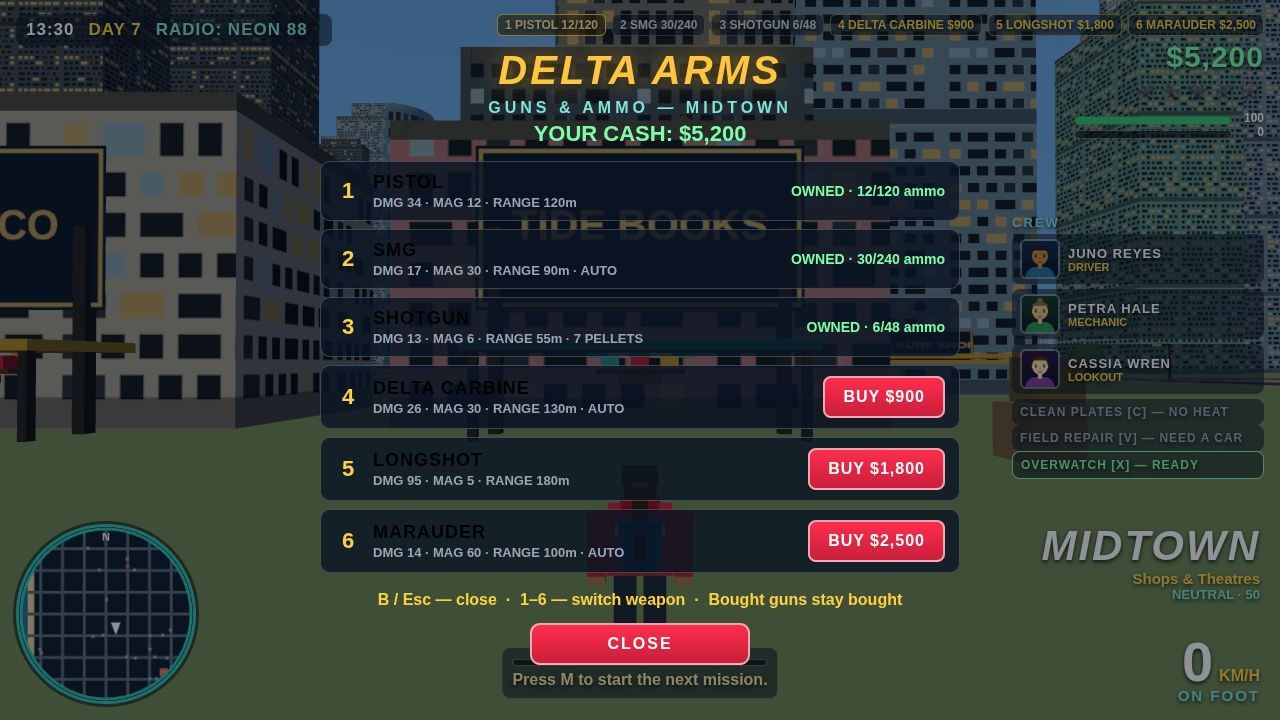
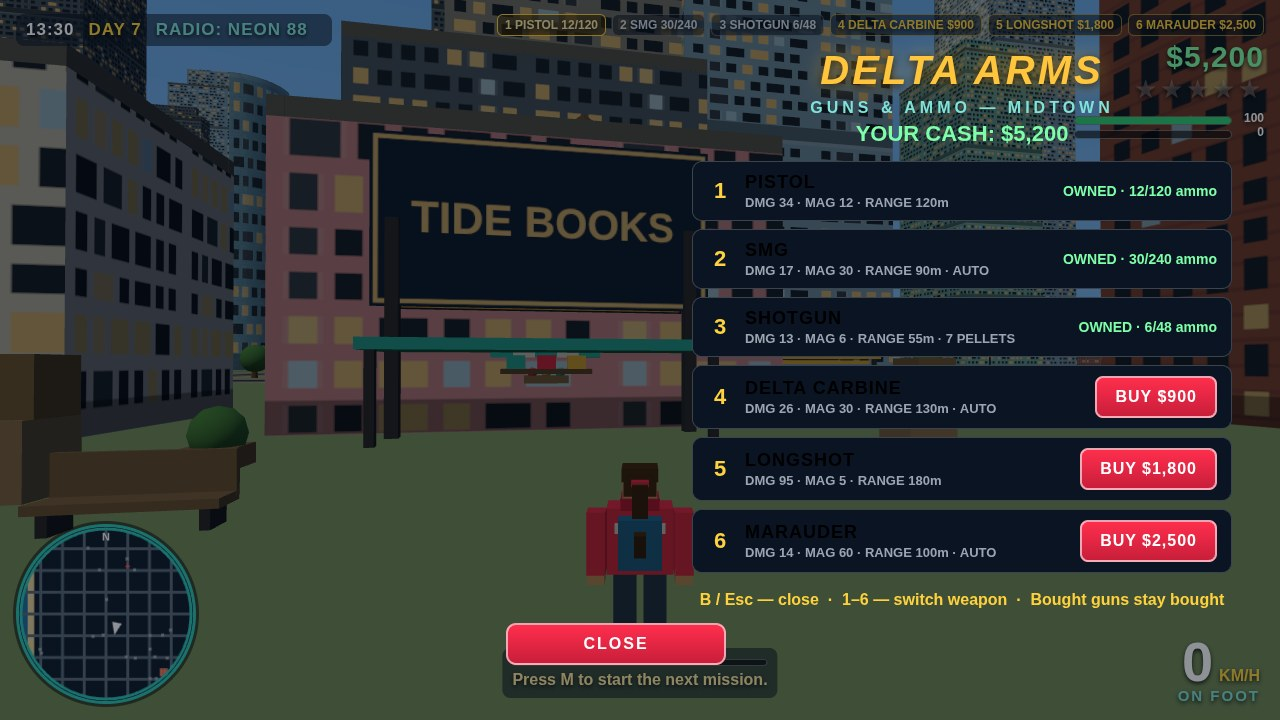
v14: dusk port restage, right-docked opaque shop, brighter heli beam, real car cabins, repair cooldown toast
- Shot 4 restaged to dusk (18.0, yaw 0.96): enlarged crane loads
  (12m container, twin cables, spreader, white band), foreground
  props (container stack, lamp, barrels, pallets)
- Shot 2: shop panel right-docked + fully opaque rows; yaw 2.94 so
  TIDE BOOKS is whole and no sign is cut; forecourt props in the
  camera wedge (planter, bench, crates, bike rack); crew bar +
  district title hidden while the shop is open
- Heli beam cone 0.22->0.34, ground disc 0.34->0.50 (geometry kept)
- Shot 3: warm glow pool on the deck; dialog top 58px / 48vw clears
  the rank bar by 10px at 1280
- Sedan + sport get real cabins: glasshouse core, corner pillars,
  body-colour roof, sloped windscreen + rear glass
- FIELD REPAIR checks cooldown before full condition (crew.js +
  hud.js); proven live: 2nd V during cooldown toasts recharging,
  money unmoved

diff --git a/game/src/world.js b/game/src/world.js
@@ -530,6 +530,11 @@ export function buildWorld(scene) {
     glowSpots.push({ x, y: 2.62, z: side + (side < 300 ? 6 : -6), color: GLOW_COLORS[glowSpots.length % 3] });
   });
   scene.add(new THREE.Mesh(mergeItems(stallItems), plain));
+  // v14: one warm pool on the deck in front of the camera — shot 3's
+  // foreground around Mara's feet was bare dark planks. This is the
+  // 28th glow disc in total (17 glowSpots + 11 storeSpots), exactly the
+  // cap in setNight, so no storefront pool is dropped.
+  glowSpots.push({ x: -716, y: 2.62, z: 300, color: 0xffc53d });
   // bunting strings across the deck
   const buntItems = [];
   const buntColors = [0xff2e4d, 0xffc53d, 0x2ec4b6, 0x7d3c98, 0xff7e5f];
@@ -770,11 +775,17 @@ export function buildWorld(scene) {
     craneItems.push(boxItem(3, 40, 3, cx + 8, 20, cz, 0xc0392b));
     craneItems.push(boxItem(30, 3, 3, cx, 40, cz, 0xc0392b));
     craneItems.push(boxItem(3, 3, 22, cx + 14, 40, cz, 0xc0392b));
-    craneItems.push(cylItem(0.2, 0.2, 14, cx + 22, 32, cz, 0x333333, 6));
+    // v14: the hanging load is the port's hero element — a full-size
+    // container on twin cables with a spreader bar, not a small box on
+    // one cable. Cables run from the jib (y ~39) to the spreader (y 26.5).
+    craneItems.push(cylItem(0.15, 0.15, 12.5, cx + 18, 32.75, cz, 0x333333, 6));
+    craneItems.push(cylItem(0.15, 0.15, 12.5, cx + 26, 32.75, cz, 0x333333, 6));
+    craneItems.push(boxItem(10, 0.8, 1, cx + 22, 26.1, cz, 0x333333)); // spreader bar
     // v13-fix: the hanging load was dark grey on a dark night sky and read
     // as a floating black box — bright orange container paint so it reads
     // as cargo on the cable, not a hole in the sky.
-    craneItems.push(boxItem(4, 3, 4, cx + 22, 24, cz, 0xe67e22));
+    craneItems.push(boxItem(12, 3.5, 4.5, cx + 22, 24, cz, 0xe67e22));
+    craneItems.push(boxItem(12.1, 0.6, 4.6, cx + 22, 24, cz, 0xf4f4f0)); // white band
     addCollider(cx - 10, cz - 4, cx + 10, cz + 4, 42);
     portStats.cranes++;
   };
@@ -900,6 +911,33 @@ export function buildWorld(scene) {
   }
   scene.add(new THREE.Mesh(mergeItems(yardItems), plain));
 
+  // ---- v14: shot-4 foreground dressing — the yard between the player
+  // (520,560) and the (640,660) crane was a wide empty dark slab. A
+  // 2-high container stack, a lamp post, barrels and pallets sit on the
+  // sightline to the crane load so the foreground has depth. Kept in a
+  // separate array on purpose: portStats is untouched (the sim and QA
+  // read it), colliders only for the chunky pieces.
+  const foreItems = [];
+  foreItems.push(boxItem(12, 2.6, 2.6, 575, 1.3, 605, 0x2471a3));
+  foreItems.push(boxItem(12, 2.6, 2.6, 575, 4.0, 605, 0xe67e22));
+  addCollider(575 - 6, 605 - 1.3, 575 + 6, 605 + 1.3, 5.4);
+  foreItems.push(cylItem(0.15, 0.2, 7, 560, 3.5, 615, 0x333333, 6)); // lamp pole
+  for (let i = 0; i < 3; i++) {
+    const ox = (i % 2) * 2.2, oz = Math.floor(i / 2) * 2.2;
+    foreItems.push(cylItem(0.9, 0.9, 2.2, 590 + ox, 1.1, 640 + oz, barrelColors[i % 3], 10));
+  }
+  addCollider(590 - 1, 640 - 1, 590 + 3.2, 640 + 3.2, 2.5);
+  foreItems.push(boxItem(2.4, 1.0, 2.4, 555, 0.5, 635, 0xb08a5a)); // pallet stack
+  foreItems.push(boxItem(2.2, 0.2, 2.2, 555, 1.05, 635, 0x8a6a42));
+  foreItems.push(boxItem(2.4, 1.0, 2.4, 555, 1.55, 635, 0xb08a5a));
+  foreItems.push(boxItem(2.2, 0.2, 2.2, 555, 2.1, 635, 0x8a6a42));
+  scene.add(new THREE.Mesh(mergeItems(foreItems), plain));
+  // Lamp head is its own basic-material mesh so it stays bright at dusk.
+  const lampHead = new THREE.Mesh(new THREE.BoxGeometry(1.2, 0.3, 0.45),
+    new THREE.MeshBasicMaterial({ color: 0xffe9a0 }));
+  lampHead.position.set(560, 7.0, 615);
+  scene.add(lampHead);
+
   // ---- Midtown street props: fire hydrants at intersections + crates by the shops
   const streetItems = [];
   for (const [hx, hz] of [[216, 216], [-184, 16], [16, -184], [416, 216], [-216, -216], [16, 416], [616, -184], [-584, 416]]) {
@@ -942,6 +980,32 @@ export function buildWorld(scene) {
     }
   }
   scene.add(new THREE.Mesh(mergeItems(streetItems), plain));
+  // ---- v14: DELTA ARMS forecourt dressing — shot 2's lower half was
+  // flat green grass. At the shot-2 yaw (2.94) the camera's ground wedge
+  // is narrow: z 115–130 shows only x ~72–90 left of the walkway and
+  // x ~100–110 right (the right mid-ground hides behind the right-docked
+  // panel), so the props sit in that wedge, flanking Mara — not in the
+  // yaw-PI strips (x 30–60 / 125–150), which now fall outside the frame.
+  const forecourtItems = [];
+  // left of the walkway (reads lower-left, below the TIDE BOOKS sign)
+  forecourtItems.push(boxItem(1.6, 0.7, 1.6, 79, 0.35, 117, 0x8a6a42)); // planter
+  forecourtItems.push({ geo: new THREE.SphereGeometry(0.9, 8, 6), matrix: new THREE.Matrix4().makeTranslation(79, 1.1, 117), color: 0x4a8a3a });
+  addCollider(79 - 0.8, 117 - 0.8, 79 + 0.8, 117 + 0.8, 1.6);
+  forecourtItems.push(boxItem(2.0, 2.0, 2.0, 76, 1.0, 121, 0xa8875a)); // crates
+  forecourtItems.push(boxItem(1.6, 1.6, 1.6, 76.3, 2.8, 121, 0x8f6f42));
+  addCollider(76 - 1.1, 121 - 1.1, 76 + 1.4, 121 + 1.1, 3.8);
+  forecourtItems.push(boxItem(3.4, 0.2, 0.9, 81, 0.55, 125, 0x8a6a42)); // bench
+  forecourtItems.push(boxItem(3.4, 1.0, 0.15, 81, 1.05, 124.6, 0x8a6a42));
+  forecourtItems.push(boxItem(0.2, 0.5, 0.7, 79.6, 0.25, 125, 0x333333));
+  forecourtItems.push(boxItem(0.2, 0.5, 0.7, 82.4, 0.25, 125, 0x333333));
+  // right of the walkway (reads bottom-right, below the panel)
+  forecourtItems.push(boxItem(0.12, 0.9, 0.12, 101.3, 0.45, 126, 0x888888)); // bike rack
+  forecourtItems.push(boxItem(0.12, 0.9, 0.12, 102.7, 0.45, 126, 0x888888));
+  forecourtItems.push(boxItem(1.5, 0.12, 0.12, 102, 0.85, 126, 0x888888));
+  forecourtItems.push({ geo: new THREE.CylinderGeometry(0.35, 0.35, 0.08, 10), matrix: new THREE.Matrix4().makeRotationX(Math.PI / 2).setPosition(101.45, 0.35, 126.3), color: 0x141414 });
+  forecourtItems.push({ geo: new THREE.CylinderGeometry(0.35, 0.35, 0.08, 10), matrix: new THREE.Matrix4().makeRotationX(Math.PI / 2).setPosition(102.55, 0.35, 126.3), color: 0x141414 });
+  addCollider(102 - 0.9, 126 - 0.5, 102 + 0.9, 126 + 0.5, 1);
+  scene.add(new THREE.Mesh(mergeItems(forecourtItems), plain));
   // ---- v10: street clutter — mailboxes, newspaper boxes, bike racks
   // (with parked bikes), planters, street bins, dumpsters, street-name
   // signs, barriers, extra benches / hydrants / cones, and infill trees

diff --git a/game/index.html b/game/index.html
@@ -38,7 +38,7 @@
   #stage-bar { height: 7px; background: rgba(0,0,0,.6); border-radius: 4px; overflow: hidden; margin: 5px 0; border: 1px solid rgba(255,255,255,.3); }
   #stage-fill { height: 100%; background: #ffd23d; width: 0%; }
   #mission-next { font-size: 13px; color: #7fe3d8; font-weight: bold; margin-top: 3px; }
-  #dialog { position: absolute; left: 50%; top: 74px; transform: translateX(-50%); max-width: 60vw; font-size: 18px; font-weight: bold; background: rgba(8,14,24,.92); border: 1px solid rgba(255,210,61,.35); border-radius: 8px; padding: 10px 18px; opacity: 0; transition: opacity .3s; text-shadow: 0 2px 6px rgba(0,0,0,.95); display: flex; align-items: center; gap: 12px; text-align: left; }
+  #dialog { position: absolute; left: 50%; top: 58px; transform: translateX(-50%); max-width: 48vw; font-size: 18px; font-weight: bold; background: rgba(8,14,24,.92); border: 1px solid rgba(255,210,61,.35); border-radius: 8px; padding: 10px 18px; opacity: 0; transition: opacity .3s; text-shadow: 0 2px 6px rgba(0,0,0,.95); display: flex; align-items: center; gap: 12px; text-align: left; }
   #dialog-portrait { width: 56px; height: 56px; border-radius: 8px; border: 2px solid rgba(255,210,61,.5); flex: none; }
   #dialog-name { font-size: 13px; font-weight: 900; color: #7fe3d8; letter-spacing: 2px; }
   #dialog-text { font-size: 18px; font-weight: bold; }
@@ -80,12 +80,12 @@
      street, the shopfront and Mara at the door stay visible around the
      panel (v12 read as a menu on a black void); the rows keep their own
      dark background, so the shop stays readable. */
-  #shop-screen { background: rgba(5,10,20,.45); justify-content: flex-start; padding-top: 48px; }
-  #shop-screen h1 { font-size: 40px; font-weight: 900; font-style: italic; letter-spacing: 3px; color: #ffc53d; text-shadow: 0 0 18px rgba(255,197,61,.6), 0 2px 8px #000; }
-  #shop-screen h2 { font-size: 16px; color: #7fe3d8; letter-spacing: 4px; margin: 6px 0 4px; }
-  #shop-money { font-size: 22px; font-weight: 900; color: #7dffa8; margin-bottom: 14px; }
-  #shop-rows { width: 640px; max-width: 92vw; }
-  .shop-row { display: flex; align-items: center; gap: 12px; background: rgba(10,20,35,.8); border: 1px solid rgba(255,255,255,.2); border-radius: 10px; padding: 10px 14px; margin-bottom: 8px; }
+  #shop-screen { background: rgba(5,10,20,.45); justify-content: flex-start; align-items: flex-end; padding-top: 48px; padding-right: 48px; }
+  #shop-screen h1 { font-size: 40px; font-weight: 900; font-style: italic; letter-spacing: 3px; color: #ffc53d; text-shadow: 0 0 18px rgba(255,197,61,.6), 0 2px 8px #000; width: 540px; text-align: center; }
+  #shop-screen h2 { font-size: 16px; color: #7fe3d8; letter-spacing: 4px; margin: 6px 0 4px; width: 540px; text-align: center; }
+  #shop-money { font-size: 22px; font-weight: 900; color: #7dffa8; margin-bottom: 14px; width: 540px; text-align: center; }
+  #shop-rows { width: 540px; max-width: 92vw; }
+  .shop-row { display: flex; align-items: center; gap: 12px; background: #0a1423; border: 1px solid rgba(255,255,255,.2); border-radius: 10px; padding: 10px 14px; margin-bottom: 8px; }
   .shop-num { font-size: 22px; font-weight: 900; color: #ffd23d; width: 26px; text-align: center; }
   .shop-info { flex: 1; text-align: left; }
   .shop-name { font-size: 18px; font-weight: 900; letter-spacing: 1px; }
@@ -94,7 +94,7 @@
   .shop-buy { font-size: 16px; font-weight: 900; letter-spacing: 1px; color: #fff; background: linear-gradient(180deg, #ff2e4d, #c81e3a); border: 2px solid rgba(255,255,255,.6); border-radius: 8px; padding: 10px 18px; cursor: pointer; }
   .shop-buy:hover { filter: brightness(1.2); }
   .shop-buy:disabled { background: #444; color: #999; border-color: #555; cursor: not-allowed; }
-  #shop-screen p { margin-top: 10px; color: #ffd23d; font-weight: bold; }
+  #shop-screen p { margin-top: 10px; color: #ffd23d; font-weight: bold; width: 540px; text-align: center; }
   /* v13: career-stats modal over the pause menu */
   #stats-screen { background: rgba(5,10,20,.6); }
   #stats-screen h1 { font-size: 34px; font-weight: 900; font-style: italic; letter-spacing: 3px; color: #ffd23d; text-shadow: 0 0 18px rgba(255,210,61,.6), 0 2px 8px #000; margin-bottom: 16px; }
@@ -230,7 +230,7 @@
   <div id="shop-money">YOUR CASH: $250</div>
   <div id="shop-rows"></div>
   <p>B / Esc — close &nbsp;·&nbsp; 1–6 — switch weapon &nbsp;·&nbsp; Bought guns stay bought</p>
-  <button class="btn small" id="btn-shop-close" style="margin-top:14px">CLOSE</button>
+  <button class="btn small" id="btn-shop-close" style="margin-top:14px; margin-left:auto">CLOSE</button>
 </div>
 
 <script type="importmap">

diff --git a/game/src/shots.js b/game/src/shots.js
@@ -60,7 +60,11 @@ function stageShop(game) {
   game.setState('playing');
   game.setHour(13.5); // bright day: the shop overlay and prices read crisp
   // Stand at the DELTA ARMS door (90, 112), facing it from the sidewalk.
-  game.teleport(90, 132, Math.PI);
+  // v14: yaw 2.94 (not PI) — at PI the "VINYL & CO" sign's east end was
+  // cut at the left frame edge ("CO"); rotating 0.2 rad right shifts the
+  // row right so TIDE BOOKS is fully in frame and no sign text is cut at
+  // the edge (VINYL & CO itself leaves the frame to the left).
+  game.teleport(90, 132, 2.94);
   game.setWanted(0);
   // Exactly the sum of all three shop prices (900 + 1800 + 2500) — the
   // overlay proves every gun is affordable from real earned money.
@@ -70,7 +74,9 @@ function stageShop(game) {
   // v13: pitch back to 0.16 — the shop panel now hugs the top of the
   // screen (CSS, below), so Mara reads fully beneath it without a steep
   // tilt; the shophouse row + towers keep their natural framing.
-  game.setCamera(Math.PI, 0.16);
+  // v14: yaw 2.94 matches the teleport heading (see above); the shop
+  // panel is right-docked in CSS now, so Mara stands clear of it.
+  game.setCamera(2.94, 0.16);
   game.openShop();
   // The overlay shows: 3 owned guns with live ammo, 3 locked guns with
   // real prices + BUY buttons, and the real cash balance in the header.
@@ -97,13 +103,13 @@ function stageNightPier(game) {
 
 function stageM8Tracker(game) {
   game.setState('playing');
-  // v13 re-stage: FULL NIGHT in the port, not dusk. The v12 dusk shot was
-  // ~55% flat salmon sky over an empty dark foreground, and a tall black
-  // container sat behind the rank bar. At night the sky is dark, the yard
-  // reads through lamps + headlights + lit crane silhouettes, and the
-  // camera looks EAST into the yard — trailers + container rows fill the
-  // mid-ground, cranes frame both sides, no tall stack in the top-right
-  // corner behind the rank panel.
+  // v14 re-stage: DUSK in the port (hour 18.0), not deep night. The v13
+  // full-night shot was a dark yard with a small crane load and a wide
+  // empty foreground. At 18.0 the sky is dusk band 2 (orange horizon,
+  // nightLevel 0.33), the enlarged crane load reads bright orange against
+  // it, and the new foreground props (container stack, lamp, barrels,
+  // pallets) fill the yard. Close to M8's own startHour 18.5, so the
+  // staging stays honest to the mission.
   // Mission 8 (THE LAST SIGNAL), stage 2/3: the player starts ON the first
   // pickup point (520, 560), so it registers during the settle frames and
   // the tracker reads "1/4" with a real progress bar + NEXT step.
@@ -112,11 +118,13 @@ function stageM8Tracker(game) {
   game.setRp(675); // RANK A · OUTLAW, 675 / 1000 RP — M1–M7 complete
   game.setDay(12);
   game.startMission(7); // startHour 18.5, startWanted 2 — dispatch shows 2 units
-  game.setHour(21.5); // override to full night AFTER startMission pinned 18.5
-  // East-southeast into the yard: trailer (628,550) + container rows
-  // (660, 520-560) mid-ground, cranes (640,480)/(640,660) framing.
+  game.setHour(18.0); // dusk override AFTER startMission pinned 18.5
+  // East-southeast into the yard, yaw 0.96 centres the (640,660) crane
+  // load and puts the big near (520,620) load clear of the dialog at the
+  // right edge: trailer (628,550) + container row (660,560) frame the
+  // left, foreground props (575,605) sit on the crane sightline.
   // Pitch 0.20 keeps port ground in frame, sky minimal.
-  game.setCamera(0.7, 0.20);
+  game.setCamera(0.96, 0.20);
   // Staged dialogue lasts 10 minutes of REAL time (see stageNightChase).
   game.hud.setDialog('The drive is in my hand. Two dead drops, then the whole city hears it.', 600000,
     { name: 'ORIN BECK', img: game.portrait('ORIN BECK') });

diff --git a/game/src/vehicles.js b/game/src/vehicles.js
@@ -37,8 +37,18 @@ function buildSedan(color, twoTone) {
   const g = new THREE.Group();
   const body = lam(color);
   g.add(box(4.6, 0.75, 2.0, 0, 0.62, 0, body));
-  g.add(box(2.4, 0.62, 1.8, -0.2, 1.28, 0, glassMat)); // cabin
-  g.add(box(2.2, 0.1, 1.7, -0.2, 1.62, 0, twoTone || color)); // roof
+  // v14: real cabin — narrower glasshouse core, body-colour corner
+  // pillars, roof with overhang, sloped windscreen + rear glass.
+  g.add(box(2.0, 0.5, 1.5, -0.2, 1.3, 0, glassMat)); // glasshouse core
+  for (const px of [0.75, -1.15]) for (const pz of [0.7, -0.7])
+    g.add(box(0.12, 0.5, 0.12, px, 1.3, pz, body)); // corner pillars
+  g.add(box(2.3, 0.1, 1.7, -0.2, 1.6, 0, lam(twoTone || color))); // roof
+  const shield = box(0.06, 0.6, 1.5, 0.9, 1.32, 0, glassMat); // windscreen
+  shield.rotation.z = 0.42;
+  g.add(shield);
+  const rear = box(0.06, 0.6, 1.5, -1.3, 1.32, 0, glassMat); // rear glass
+  rear.rotation.z = -0.42;
+  g.add(rear);
   g.add(box(0.5, 0.4, 1.9, 2.28, 0.55, 0, chromeMat)); // grille + bumper
   g.add(box(0.3, 0.28, 1.7, -2.32, 0.55, 0, chromeMat));
   g.add(box(0.2, 0.22, 0.4, 2.32, 0.75, 0.65, lightMat));
@@ -95,8 +105,18 @@ function buildSport(color, stripe) {
   const g = new THREE.Group();
   const body = lam(color);
   g.add(box(4.4, 0.55, 2.0, 0, 0.55, 0, body)); // low body
-  g.add(box(2.0, 0.5, 1.7, -0.3, 1.05, 0, glassMat));
-  g.add(box(1.9, 0.08, 1.6, -0.3, 1.32, 0, color));
+  // v14: real cabin — narrower glasshouse core, body-colour corner
+  // pillars, roof with overhang, sloped windscreen + fastback rear glass.
+  g.add(box(1.4, 0.42, 1.3, -0.3, 1.04, 0, glassMat)); // glasshouse core
+  for (const px of [0.35, -0.95]) for (const pz of [0.6, -0.6])
+    g.add(box(0.12, 0.42, 0.12, px, 1.04, pz, body)); // corner pillars
+  g.add(box(1.9, 0.08, 1.5, -0.3, 1.3, 0, lam(color))); // roof
+  const shield = box(0.06, 0.55, 1.3, 0.48, 1.05, 0, glassMat); // windscreen
+  shield.rotation.z = 0.42;
+  g.add(shield);
+  const rear = box(0.06, 0.55, 1.3, -1.08, 1.05, 0, glassMat); // rear glass
+  rear.rotation.z = -0.42;
+  g.add(rear);
   // racing stripe over hood + roof
   g.add(box(4.2, 0.04, 0.5, 0, 0.84, 0, lam(stripe || 0xf4f4f0)));
   // spoiler

diff --git a/game/src/hud.js b/game/src/hud.js
@@ -16,6 +16,7 @@ export class HUD {
       stars: $('stars'), healthFill: $('health-fill'), armorFill: $('armor-fill'),
       healthNum: $('health-num'), armorNum: $('armor-num'),
       district: $('district-name'), districtSub: $('district-sub'), standing: $('standing'),
+      districtWrap: $('district'),
       speedNum: $('speed-num'), vehName: $('veh-name'), vehCond: $('veh-cond'),
       mission: $('mission-text'), missionStage: $('mission-stage'), stageFill: $('stage-fill'),
       missionNext: $('mission-next'),
@@ -206,8 +207,8 @@ export class HUD {
       const cond = ctx.condition;
       let text, ready = false;
       if (!ctx.inCar) text = 'FIELD REPAIR [V] — NEED A CAR';
-      else if (cond != null && cond >= 100) text = 'FIELD REPAIR [V] — CAR OK';
       else if (cs.repairT > 0) text = `FIELD REPAIR [V] — ${Math.ceil(cs.repairT)}s`;
+      else if (cond != null && cond >= 100) text = 'FIELD REPAIR [V] — CAR OK';
       else if ((ctx.money ?? 0) < 150) text = 'FIELD REPAIR [V] — NEED $150';
       else { text = 'FIELD REPAIR [V] — READY ($150)'; ready = true; }
       this.el.crewAbilityRepair.textContent = text;
@@ -234,10 +235,17 @@ export class HUD {
     // v13-fix: the rank panel's left edge sat behind the first shop row —
     // hide it while the shop is open (its numbers are not shop-relevant).
     if (this.el.rankPanel) this.el.rankPanel.style.display = 'none';
+    // v14: the right-docked panel sits over the crew bar and the district
+    // title — both paint above the overlay, so hide them too while the
+    // shop is open (restored in hideShop, same as the rank panel).
+    if (this.el.crewBar) this.el.crewBar.style.display = 'none';
+    if (this.el.districtWrap) this.el.districtWrap.style.display = 'none';
   }
   hideShop() {
     if (this.el.shop) this.el.shop.style.display = 'none';
     if (this.el.rankPanel) this.el.rankPanel.style.display = '';
+    if (this.el.crewBar) this.el.crewBar.style.display = '';
+    if (this.el.districtWrap) this.el.districtWrap.style.display = '';
   }
   renderShop(state) {
     if (!this.el.shopRows) return;

diff --git a/game/src/police.js b/game/src/police.js
@@ -126,13 +126,15 @@ export class Police {
     // source, wide at the ground, like a real searchlight. (The old code
     // flipped it with rotation.x = PI and parked it at y=-11, so it read
     // wide-at-the-heli, pointed down, and stopped ~3 m above the ground.)
-    // Opacity 0.22 (was 0.18): the beam must still read against a bright
-    // golden-hour sky, not only at night — v13-fix2 bumped it slightly
-    // toward the reference beam, which locks the car in visibly brighter
-    // light. Kept modest so the cone's edge does not harden further.
+    // Opacity 0.34 (was 0.22): the beam must still read against a bright
+    // golden-hour sky, not only at night — v14 bumped it further toward
+    // the reference beam, which locks the car in visibly brighter light.
+    // Raised in step with the ground disc (0.50) so cone and pool stay
+    // in balance; the cone's edge stays soft because the material has
+    // no hard rim — only the alpha is higher.
     const cone = new THREE.Mesh(
       new THREE.ConeGeometry(5, 20, 12, 1, true),
-      new THREE.MeshBasicMaterial({ color: 0xfff6c0, transparent: true, opacity: 0.22, side: THREE.DoubleSide, depthWrite: false })
+      new THREE.MeshBasicMaterial({ color: 0xfff6c0, transparent: true, opacity: 0.34, side: THREE.DoubleSide, depthWrite: false })
     );
     this.heliLight = cone;
     this.scene.add(cone);
@@ -140,7 +142,7 @@ export class Police {
     // under the orbiting helicopter (update() moves it to the player).
     const spot = new THREE.Mesh(
       new THREE.CircleGeometry(8, 20),
-      new THREE.MeshBasicMaterial({ color: 0xfff2b0, transparent: true, opacity: 0.34, side: THREE.DoubleSide, depthWrite: false })
+      new THREE.MeshBasicMaterial({ color: 0xfff2b0, transparent: true, opacity: 0.50, side: THREE.DoubleSide, depthWrite: false })
     );
     spot.rotation.x = -Math.PI / 2;
     spot.position.set(0, 0.15, 0);

diff --git a/game/src/crew.js b/game/src/crew.js
@@ -28,8 +28,11 @@ export function applySwap(state, wanted, cooldown) {
 // after the $150 parts cost is deducted (unchanged on failure).
 export function applyRepair(state, inCar, money, cost, cooldown) {
   if (!inCar) return { ok: false, condition: null, money, reason: 'no-car' };
-  if ((inCar.health ?? 100) >= 100) return { ok: false, condition: Math.round(inCar.health), money, reason: 'full' };
+  // Cooldown is checked BEFORE full condition (v14): pressing V again
+  // during the 60 s recharge must report the cooldown, not "already in
+  // top shape" — a repaired car is at 100 while the timer still runs.
   if ((state.repairT || 0) > 0) return { ok: false, condition: Math.round(inCar.health), money, reason: 'cooldown' };
+  if ((inCar.health ?? 100) >= 100) return { ok: false, condition: Math.round(inCar.health), money, reason: 'full' };
   if (money < cost) return { ok: false, condition: Math.round(inCar.health), money, reason: 'no-funds' };
   state.repairT = cooldown;
   inCar.health = 100;
